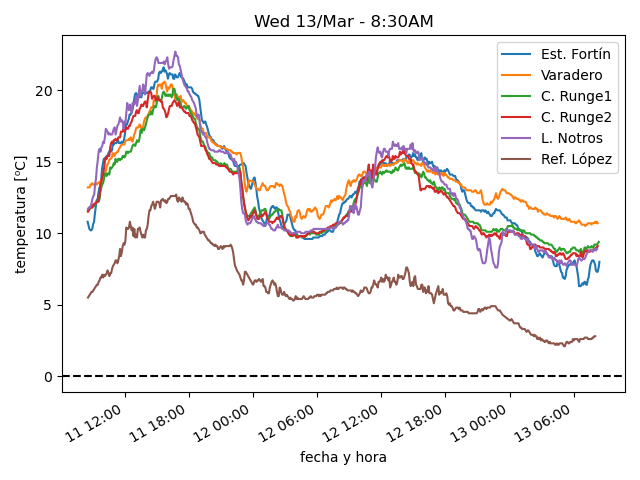
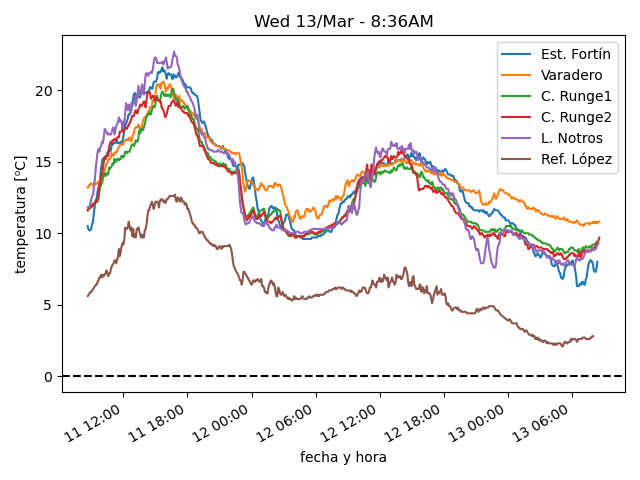
actualiza datos

diff --git a/estaciones/estacion2.html b/estaciones/estacion2.html
@@ -18,32 +18,32 @@
     </tr>
     <tr>
      <td class="stats_data">
-      8:14AM
+      8:34AM
      </td>
     </tr>
     <tr>
      <td class="stats_data">
-      10.7
+      10.8
      </td>
     </tr>
     <tr>
      <td class="stats_data">
-      6.5
+      6.6
      </td>
     </tr>
     <tr>
      <td class="stats_data">
-      75.2
+      75.1
      </td>
     </tr>
     <tr>
      <td class="stats_data">
-      1013.51
+      1013.61
      </td>
     </tr>
     <tr>
      <td class="stats_data">
-      38.0/45.7 NW
+      34.0/40.8 NW
      </td>
     </tr>
     <tr>
@@ -58,7 +58,7 @@
     </tr>
     <tr>
      <td class="stats_data">
-      22.0
+      43.8
      </td>
     </tr>
    </tbody>

diff --git a/estaciones/estacion4.html b/estaciones/estacion4.html
@@ -18,32 +18,32 @@
     </tr>
     <tr>
      <td class="stats_data">
-      8:14AM
+      8:34AM
      </td>
     </tr>
     <tr>
      <td class="stats_data">
-      9.1
+      9.7
      </td>
     </tr>
     <tr>
      <td class="stats_data">
-      4.3
+      4.7
      </td>
     </tr>
     <tr>
      <td class="stats_data">
-      72.2
+      71.2
      </td>
     </tr>
     <tr>
      <td class="stats_data">
-      1011.82
+      1011.92
      </td>
     </tr>
     <tr>
      <td class="stats_data">
-      5.4/8.4 SSW
+      5.9/10.3 S
      </td>
     </tr>
     <tr>
@@ -58,7 +58,7 @@
     </tr>
     <tr>
      <td class="stats_data">
-      41.1
+      76.2
      </td>
     </tr>
    </tbody>

diff --git a/estaciones/estacion5.html b/estaciones/estacion5.html
@@ -18,27 +18,27 @@
     </tr>
     <tr>
      <td class="stats_data">
-      8:10AM
+      8:30AM
      </td>
     </tr>
     <tr>
      <td class="stats_data">
-      8.9
+      9.3
      </td>
     </tr>
     <tr>
      <td class="stats_data">
-      3.9
+      4.1
      </td>
     </tr>
     <tr>
      <td class="stats_data">
-      71.0
+      70.0
      </td>
     </tr>
     <tr>
      <td class="stats_data">
-      1013.41
+      1013.61
      </td>
     </tr>
     <tr>
